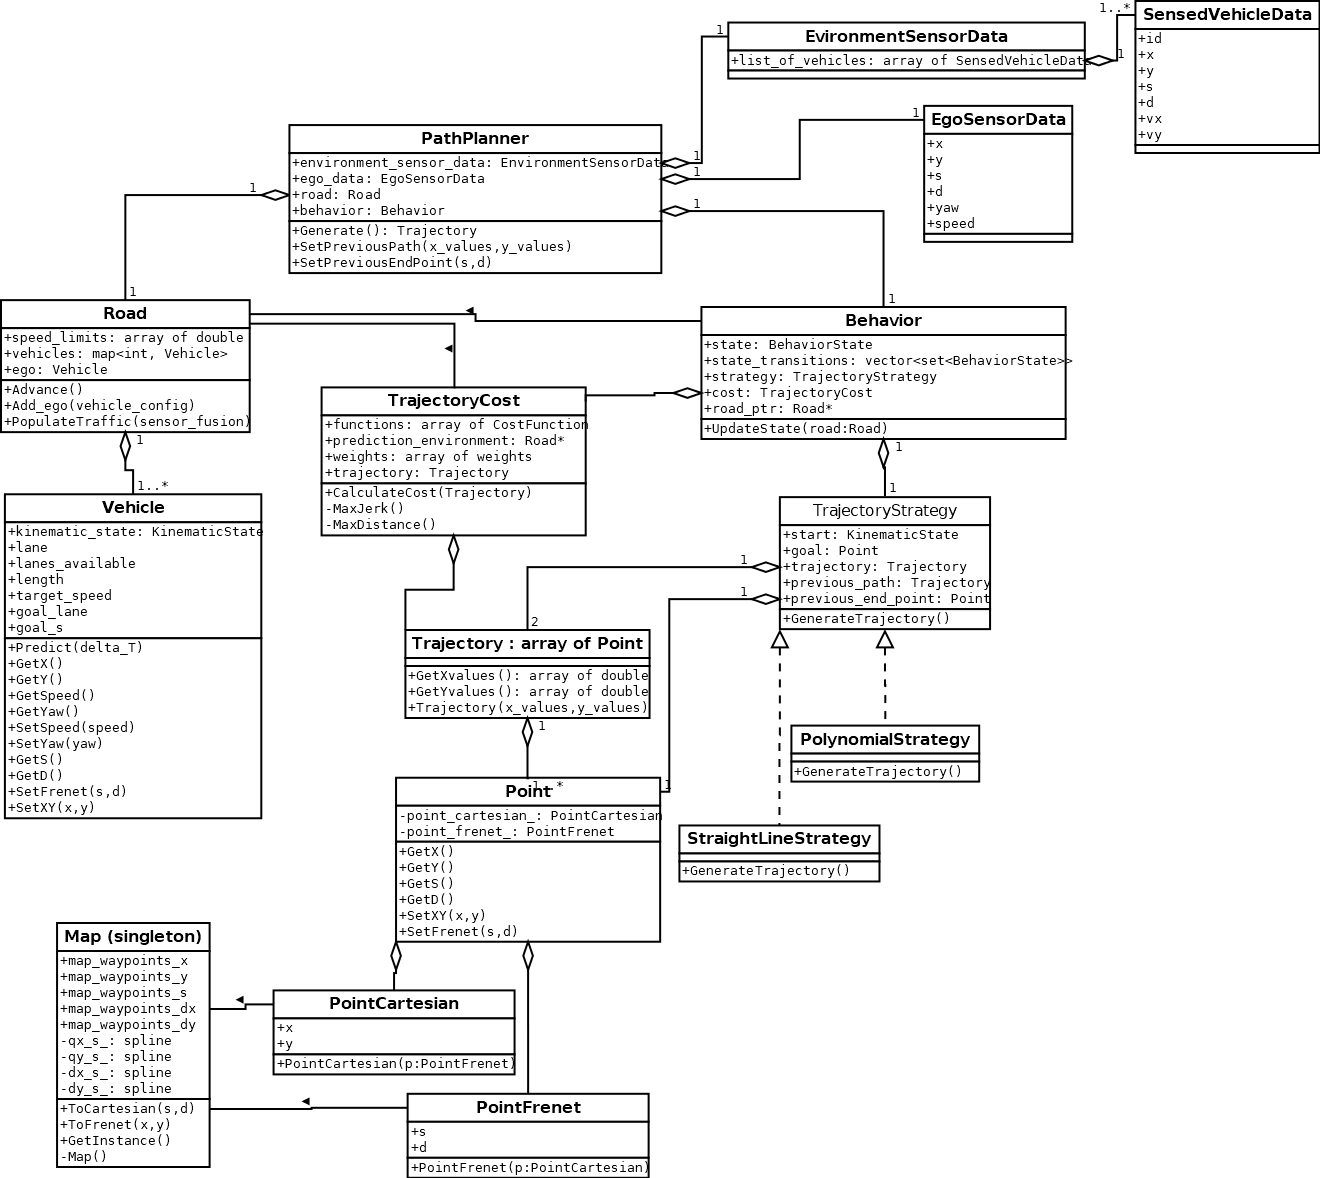
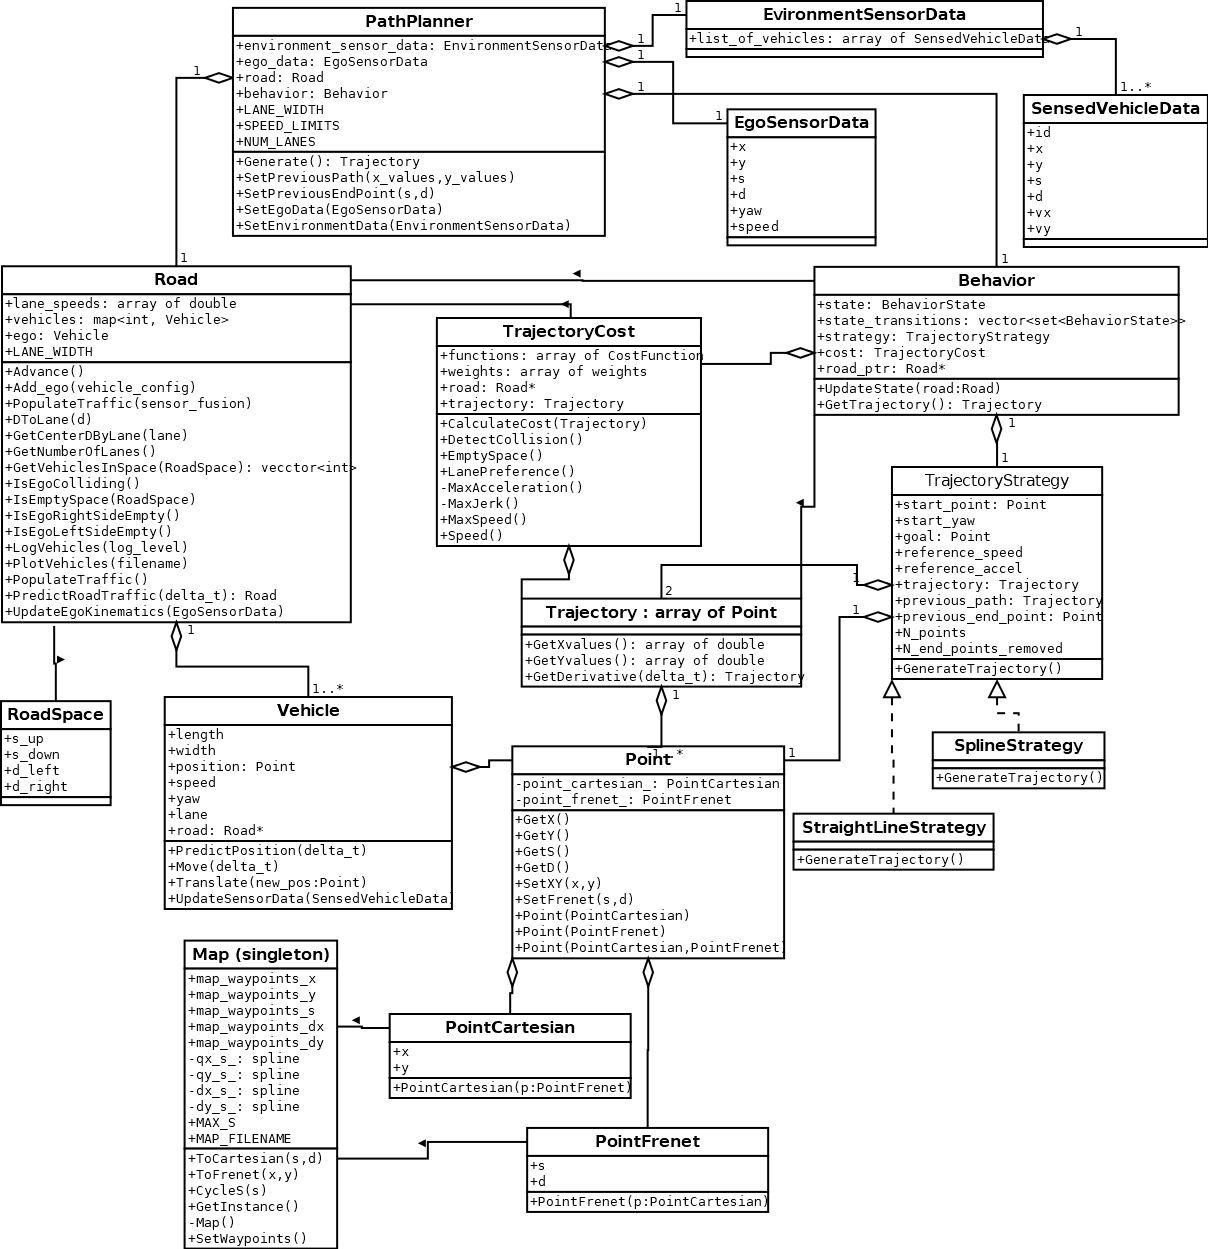
UML + GIF + code cleanup

Changed region(s): [[0.0, 0.0, 1.0, 1.0]]

diff --git a/src/behavior.cpp b/src/behavior.cpp
@@ -43,6 +43,7 @@ Behavior::Behavior(Road* road)
   // Set d-coordinate desired for each combination of lane and state
   SetDDesired();
   
+  // Init trajectory generator strategy
   // strategy = new StraightLineStrategy();
   // strategy = new WalkthroughStrategy();
   strategy = new SplineStrategy();
@@ -75,7 +76,7 @@ double Behavior::GetDDesired(int lane, BehaviorState state) const
 }
 
 // ----------------------------------------------------------------------------
-Trajectory Behavior::GetTrajectory()
+const Trajectory& Behavior::GetTrajectory()
 {
   return best_trajectory_;
 }
@@ -90,29 +91,23 @@ void Behavior::UpdateState()
   
   LOG(logDEBUG3) << "------ Behavior::UpdateState() -------";
   
-  // ---- Horrible hack! -----
+  // ---- Hack! -----
   // Update the reference_speed with whatever the speed is at the point where we are going to add points
   const double N_points_passed = strategy->trajectory.size() - strategy->previous_path.size();
   const double N_future = strategy->N_points - strategy->N_end_points_removed; // - N_points_passed;
   LOG(logDEBUG2) << "Behavior::UpdateState() - N_future: " << N_future;
   if (strategy->trajectory.size() > N_future)
   {
-    // strategy->N_end_points_removed = 1; //N_points_passed; // ONLY FOR SplineStrategyXY
     Trajectory speed_trajectory = strategy->trajectory.GetDerivative(T_simulator);
     Point p = speed_trajectory[N_future-1];
     const double speed = Magnitude(p.GetX(), p.GetY());
     strategy->reference_speed = speed;
   }
-  // if (N_points_passed == 0)
-  // {
-    // LOG(logWARNING) << "SplineStrategy::GenerateTrajectory() - N_points_passed = " << N_points_passed << "! | Don't generate!";
-    // return; // early return
-  // }
   // -------------------------
 
   Road& road = *road_ptr; // alias
 
-  // Set starting point with the input road (add Road in the input)
+  // Set starting point with the ego position
   strategy->start_point = road.ego.position;
   strategy->start_yaw = road.ego.yaw;
 
@@ -123,11 +118,8 @@ void Behavior::UpdateState()
   strategy->reference_accel = 0;
   const double prev_ref_speed = strategy->reference_speed;
 
-  // Define the space ahead
-  // const double safe_distance = 30; // This should depend on the speed. We might think of a safe "time" distance better.
+  // Define the space ahead. If nobody is there, the ego will keep lane
   const double safe_time = 1; // seconds
-  // const double target_range = 30; //safe_time * strategy->reference_speed; // meters
-  // const double target_range = safe_time*road.ego.speed;
   const double target_range = 30;
   const double perturbed_s_range = road.ego.lenght * 4;
   
@@ -136,11 +128,10 @@ void Behavior::UpdateState()
   
   RoadSpace space_ahead;
   space_ahead.s_down = ego_s;
-  space_ahead.s_up = space_ahead.s_down + 100; // + 30
+  space_ahead.s_up = space_ahead.s_down + 100;
   space_ahead.d_left = road.ego.lane * road.LANE_WIDTH;
   space_ahead.d_right = space_ahead.d_left + road.LANE_WIDTH;
-  // double goal_s = ego_s + 40; // TODO: design carefully goal_s.
-  double goal_s = ego_s + 60; // TODO: design carefully goal_s.
+  double goal_s = ego_s + 60;
   double goal_d = road.GetCenterDByLane(road.ego.lane); // Center of the lane
   
   LOG(logINFO) << "Behavior::UpdateState() - Current state = " << state;
@@ -186,24 +177,23 @@ void Behavior::UpdateState()
 
     LOG(logINFO) << "Behavior::UpdateState() - min_dist_ahead: " << min_dist_ahead << " | id_closest: " << id_closest;
     
-    // Track front vehicle only if it is within a minor range
+    // Track front vehicle only if it is within a minor range, using a Proportional controller
     if (min_dist_ahead < target_range)
     {
       if (id_closest == -1) LOG(logERROR) << "Behavior::UpdateState() - id_closest = -1 !! - closest vehicle ahead not found!";
       
       // Front vehicle speed tracking
-      // strategy->reference_speed -= 0.05*(strategy->reference_speed - road.vehicles[id_vector[0]].speed);
       const double desired_speed = front_vehicle_speed;
       const double error_speed = (desired_speed - road.ego.speed);
-      // const double error_speed_sign = (error_speed > 0 ? 1.0 : 0.0);
-      // strategy->reference_speed += error_speed_sign * speed_increment;
-      const double kv = 0.02;
-      // strategy->reference_speed += kv * error_speed;
+      const double kv = 1e-3; //0.02;
+      strategy->reference_speed += kv * error_speed;
       
       // Front vehicle distance tracking
+      // This value should be lower than space_ahead.s_up, otherwise it could crash with the front vehicle
       // This value means that the desired distance is 50 points behind. This allows the generated trajectory to add points before the vehicle
-      // const double desired_front_vehicle_distance = 50*road.ego.speed*T_simulator; // This value should be lower than space_ahead.s_up, otherwise it could crash with the front vehicle
-      const double desired_front_vehicle_distance = safe_time*road.ego.speed; // This value should be lower than space_ahead.s_up, otherwise it could crash with the front vehicle
+      // const double desired_front_vehicle_distance = 50*road.ego.speed*T_simulator;
+      // This way, the distance is defined in terms of time. It is always a distance such that there are "safe_time" seconds between both vehicles.
+      const double desired_front_vehicle_distance = safe_time*road.ego.speed;
       double front_vehicle_distance = road.vehicles[id_closest].position.GetS() - road.ego.position.GetS();
       if (front_vehicle_distance < 0) front_vehicle_distance += Map::GetInstance().MAX_S;
       const double error_position = desired_front_vehicle_distance - front_vehicle_distance;

diff --git a/src/utils.h b/src/utils.h
@@ -7,6 +7,7 @@
 
 using namespace std;
 
+// Tolerance value for atan3()
 constexpr double ATAN3_TOL = 1e-5;
 
 // For converting back and forth between radians and degrees.
@@ -23,11 +24,14 @@ double distance(double x1, double y1, double x2, double y2);
 //! Calculates the magnitude of the vector (x,y)
 double Magnitude(double x, double y);
 
+//! Gets the closest waypoint to the specified point x,y
 int ClosestWaypoint(double x, double y, const vector<double>& maps_x, const vector<double>& maps_y);
 
+//! Gets the next waypoint for the specified x,y
 int NextWaypoint(double x, double y, double theta
   , const vector<double>& maps_x, const vector<double>& maps_y);
   
+//! A helper function that takes in a c-style array and convert it to a c++ vector
 template<class Tin, class Tout>
 vector<Tout> CArrayToVector(const Tin* c_array, const int length)
 {
@@ -40,6 +44,7 @@ vector<Tout> CArrayToVector(const Tin* c_array, const int length)
   return output_vector;
 }
 
+//! A helper class to measure elapsed time for debugging and optimization purposes
 class Timer
 {
   public:

diff --git a/src/behavior.h b/src/behavior.h
@@ -16,8 +16,8 @@ class Behavior {
 public:
   enum class BehaviorState {
     KEEP_LANE,
-    PREPARE_CHANGE_LANE_LEFT,
-    PREPARE_CHANGE_LANE_RIGHT,
+    PREPARE_CHANGE_LANE_LEFT, // Not used for the moment
+    PREPARE_CHANGE_LANE_RIGHT, // Not used for the moment
     CHANGE_LANE_LEFT,
     CHANGE_LANE_RIGHT,
     
@@ -26,7 +26,7 @@ public:
   
   BehaviorState state;
   map<BehaviorState, set<BehaviorState> > state_transitions;
-  TrajectoryStrategy* strategy;
+  TrajectoryStrategy* strategy; // TODO: <Refactor> Rename to generator
   TrajectoryCost cost;
   
   // The behavior model can see the road in which it is being applied.
@@ -41,7 +41,7 @@ public:
   double GetDDesired(int lane, BehaviorState state) const;
   
   //! Get the generated trajectory
-  Trajectory GetTrajectory();
+  const Trajectory& GetTrajectory();
   void UpdateState();
   
   //! Print state to stdout

diff --git a/src/logger.h b/src/logger.h
@@ -75,7 +75,7 @@ inline TLogLevel& Log::ReportingLevel()
 
 inline std::string Log::ToString(TLogLevel level)
 {
-	static const char* const buffer[] = {"ERROR", "WARNING", "INFO", "DEBUG", "DEBUG1", "DEBUG2", "DEBUG3", "DEBUG4"};
+	static const char* const buffer[] = {"ERROR", "WARNING", "INFO", "DEBUG", "DEBUG1", "DEBUG2", "DEBUG3", "DEBUG4", "DEBUG5"};
     return buffer[level];
 }
 

diff --git a/src/main.cpp b/src/main.cpp
@@ -41,8 +41,8 @@ int main() {
 
   // SET_LOG_LEVEL(logDEBUG2);
   // SET_LOG_LEVEL(logWARNING);
-  SET_LOG_LEVEL(logINFO);
-  // SET_LOG_LEVEL(logERROR);
+  // SET_LOG_LEVEL(logINFO);
+  SET_LOG_LEVEL(logERROR);
   PathPlanner path_planner;
   
   Timer timer;

diff --git a/src/map.h b/src/map.h
@@ -46,8 +46,8 @@ public:
   tk::spline qy_s_; // qy(s)
   tk::spline dx_s_; // dx(s)
   tk::spline dy_s_; // dy(s)
-private:
   
+private:
   Map();
 };
 

diff --git a/README.md b/README.md
@@ -6,28 +6,36 @@ This work is part of the Self-Driving Car Engineer Nanodegree Program at Udacity
 ---
 
 [//]: # (Image References)
+[simulator]: ./img/5miles.png
 [UML]: ./img/UML-diagram.png
 [arch]: ./img/software-architecture.png
-[u]: ./img/u.gif
+[video]: ./img/40secs_7fps.gif
 
-*Project in progress*
+## Results
+
+![Simulator][simulator]
+
+The algorithms have been tested in a simulator provided by Udacity for about 10 minutes without incidents, driving more than 6 miles. 
+[A realization of this has been uploaded to YouTube in this link,](https://youtu.be/a_IoRniavFc)
+and here you can see a short example:
+
+![GIF Example][video]
 
 
-## Software Architecture - *In progress*
+## Software Architecture
 
 In the following picture we can see a high-level diagram of the modules required and the way they relate to each other:
 
 ![Software Architecture][arch]
 
-Basically, the simulator sends sensor data of the ego vehicle and the surrounding environment. With this I model the road with the kinematic state of each vehicle sensed and predict how this is going to change in the near future using a kinematic model. Based on that, the behavior model loops over several goal points and generates trajectories. For each trajectory, it calculates a cost, which represents how safe it is. The best one is sent back to the simulator
+Basically, the simulator sends sensor data of the ego vehicle and the surrounding environment. With this in mind, I model the road with the kinematic state of each vehicle sensed and predict how this is going to change in the near future using a kinematic model. Based on that, the behavior model loops over several goal points and generates trajectories. For each trajectory, it calculates a cost, which represents how safe it is. The best one is sent back to the simulator. Most of the core logic is coded in the method `Behavior::UpdateState()`, in the file `behavior.cpp`.
 
 
-## UML - *In progress*
+## UML
 
-Here we can see the classes that are implemented (*in progress*) to accomplish the mission.
+Here we can see the classes that are implemented to accomplish the mission.
 
 ![UML diagram][UML]
-
 
 ## Map
 
